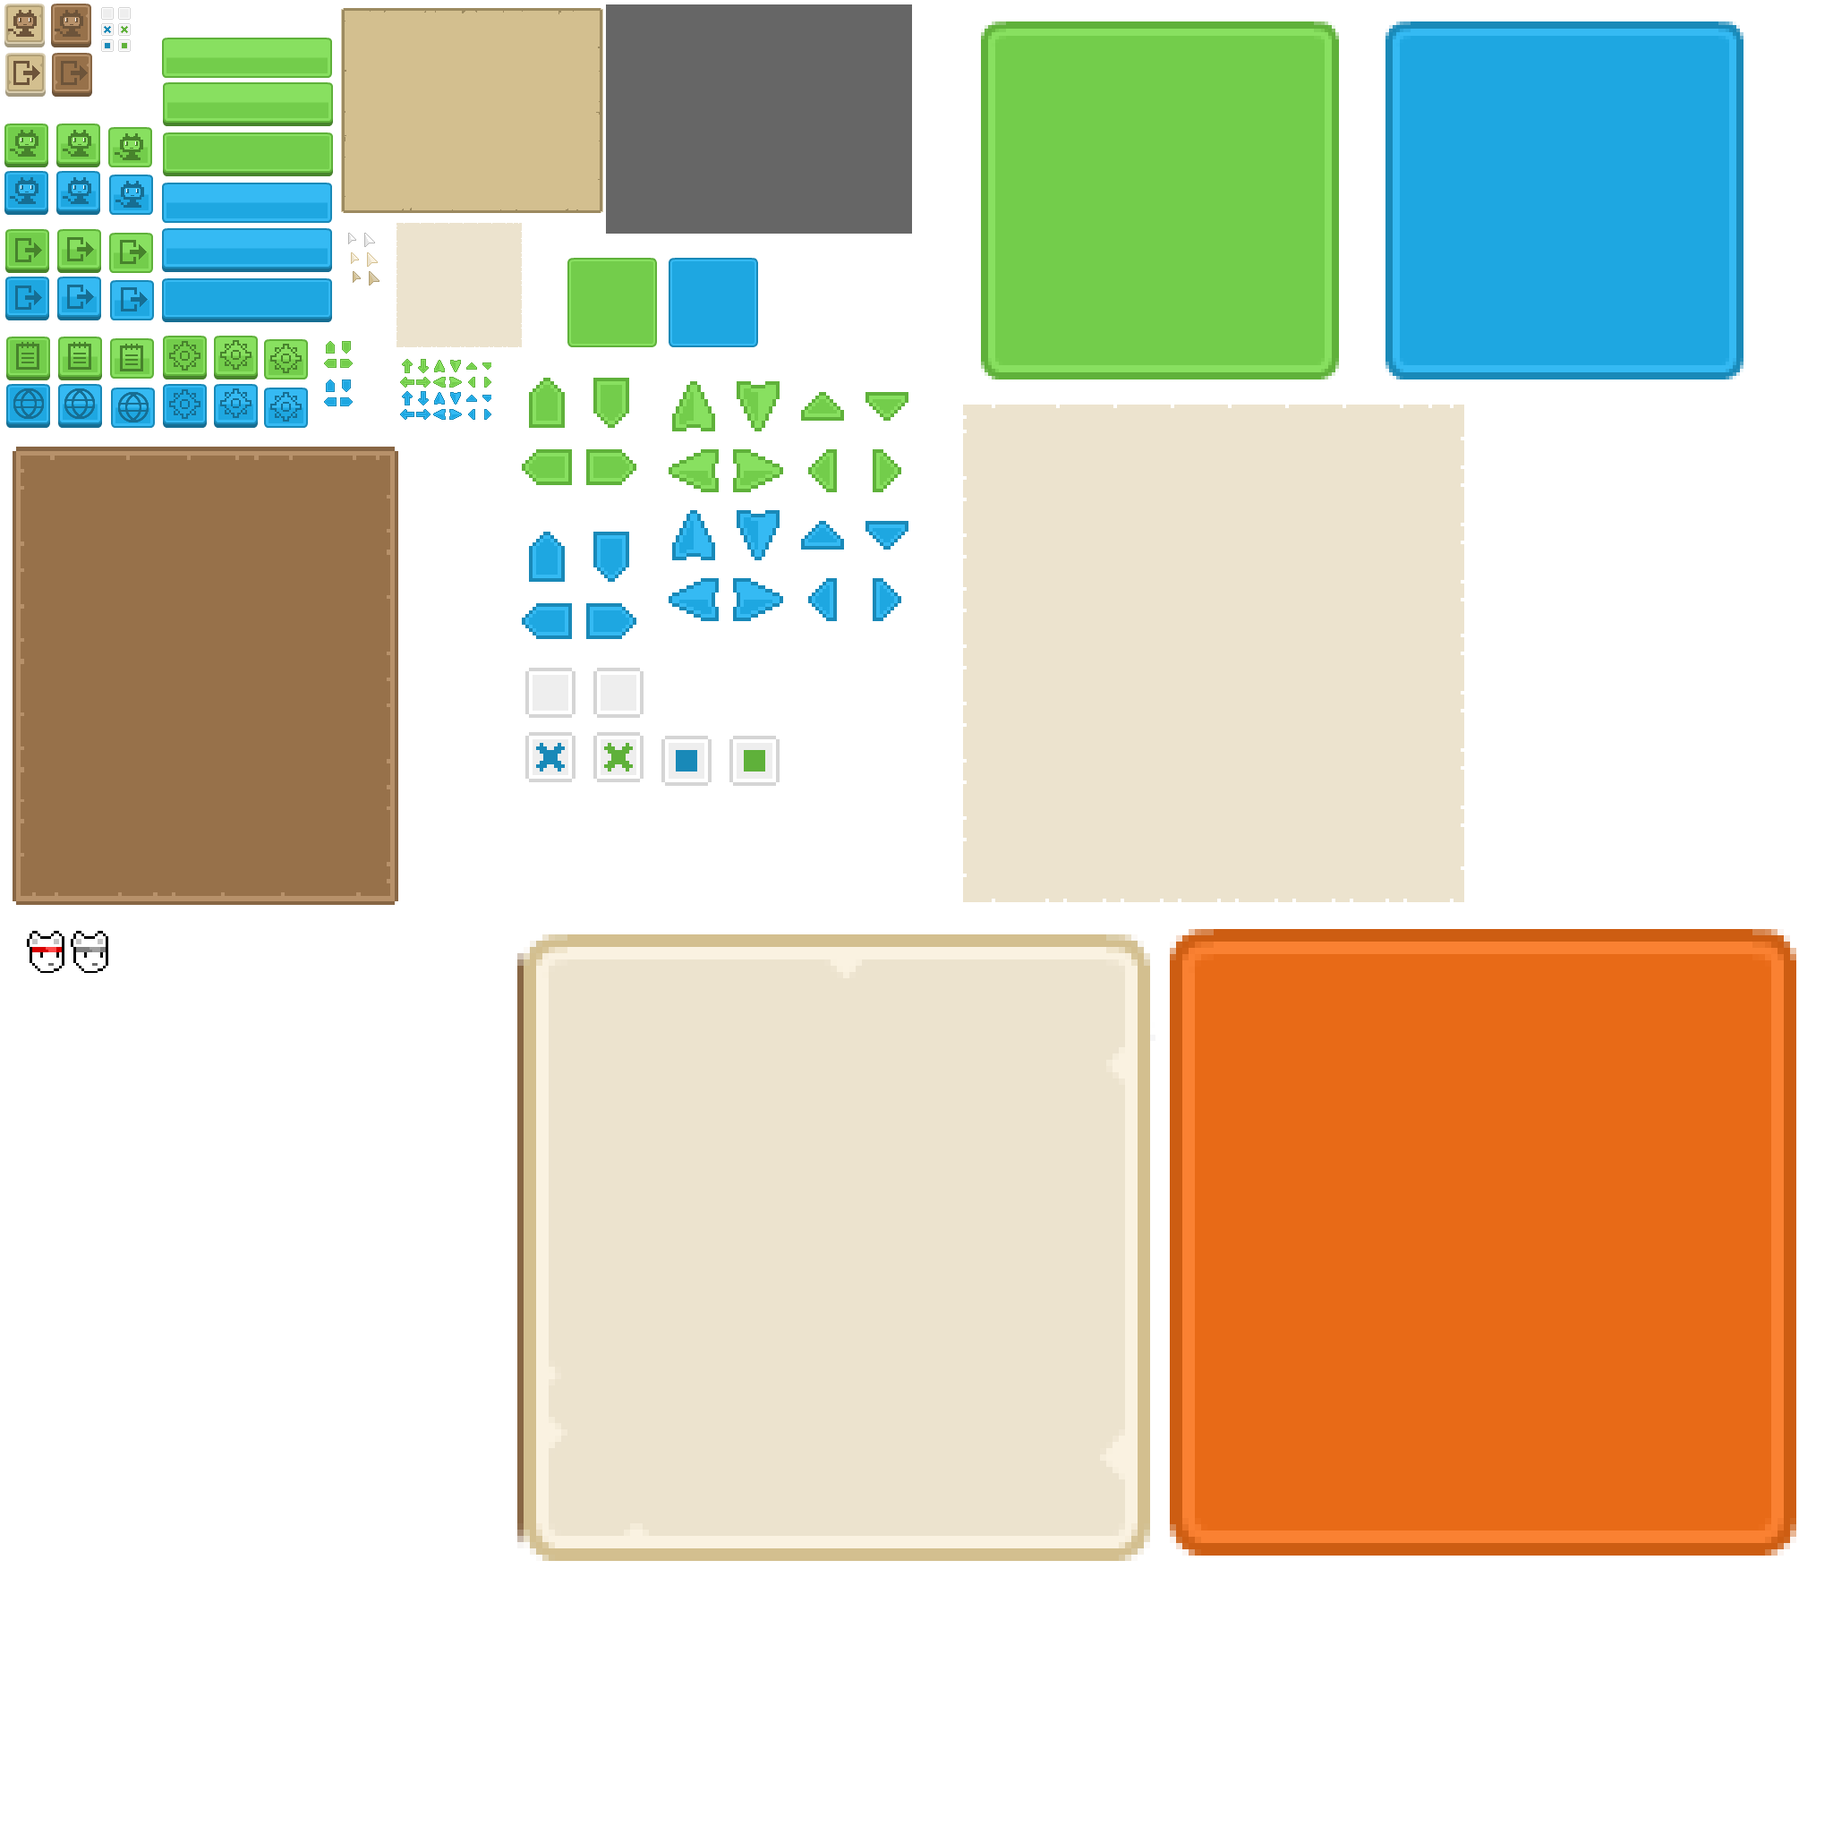
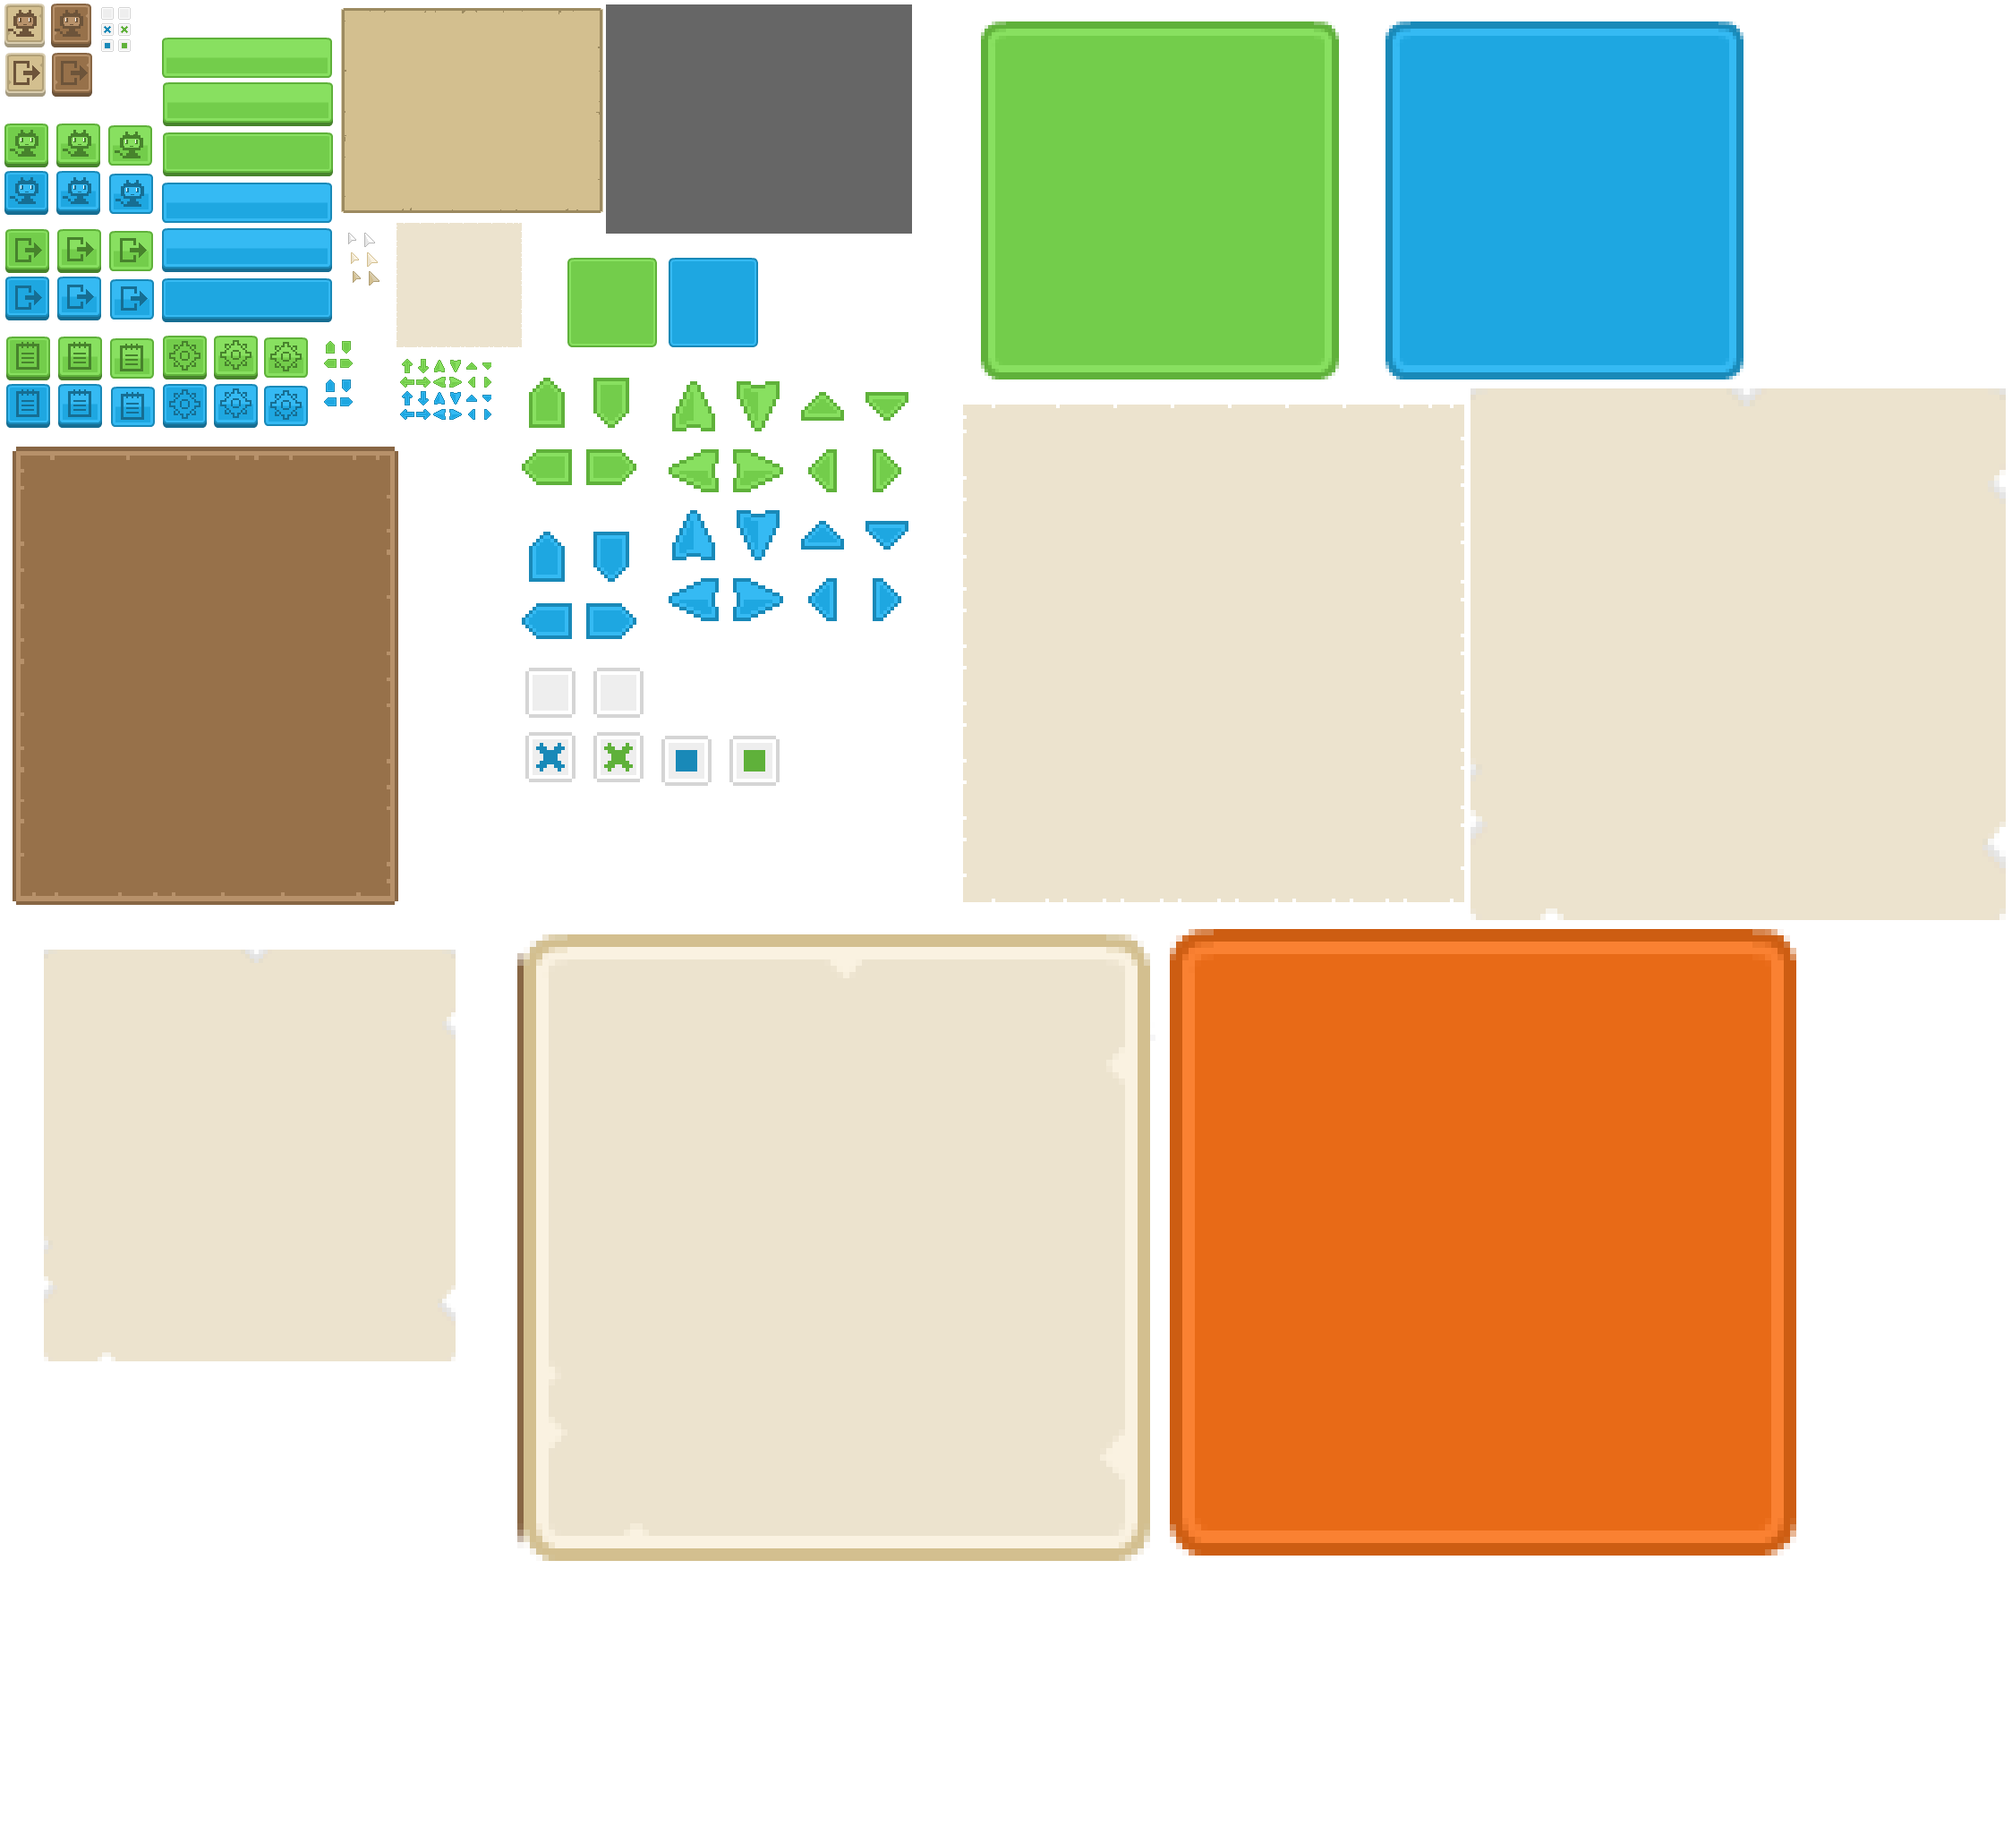
added license & team in credits

Changed region(s): [[0.0, 0.0, 0.5625, 0.875], [0.6562, 0.0, 1.0, 0.875], [0.5625, 0.5, 0.6562, 0.875]]

diff --git a/Motor2D/j1MainMenu.cpp b/Motor2D/j1MainMenu.cpp
@@ -114,9 +114,18 @@ bool j1MainMenu::Start()
 	back_from_credits_btn->interactable = false;
 
 	panel_img = App->gui->CreateImage(win_width/2 - 350, 0, {1306,1035,703,707}, App->gui->screen, false, false, false);
+	panel_credits = App->gui->CreateImage(win_width / 2 - 280, win_height, { 1075,451,561,556 }, App->gui->screen, false, false, false);
 
-	panel_credits = App->gui->CreateImage(win_width / 2 - 215, win_height, { 14,498,431,512 }, App->gui->screen, false, false, false);
+	p2SString license;
+	license.create("MIT License                                                                                           Copyright(c) 2017 \n                                                                                        Permission is hereby granted, free of charge, to any person obtaining a copy of this software and associated documentation files(the ''Software''), to deal in the Software without restriction, including without limitation the rights to use, copy, modify, merge, publish, distribute, sublicense, and/or sell copies of the Software, and to permit persons to whom the Software is furnished to do so, subject to the following conditions : \n                                                                                          The above copyright notice and this permission notice shall be included in all copies or substantial portions of the Software. \n                                                                                                      THE SOFTWARE IS PROVIDED ''AS IS'', WITHOUT WARRANTY OF ANY KIND, EXPRESS OR IMPLIED, INCLUDING BUT NOT LIMITED TO THE WARRANTIES OF MERCHANTABILITY, FITNESS FOR A PARTICULAR PURPOSE AND NONINFRINGEMENT.IN NO EVENT SHALL THE AUTHORS OR COPYRIGHT HOLDERS BE LIABLE FOR ANY CLAIM, DAMAGES OR OTHER LIABILITY, WHETHER IN AN ACTION OF CONTRACT, TORT OR OTHERWISE, ARISING FROM, OUT OF OR IN CONNECTION WITH THE SOFTWARE OR THE USE OR OTHER DEALINGS IN THE SOFTWARE.");
 
+	license_lbl = App->gui->CreateLabel(5,5, license.GetString(), false, false, panel_credits, BLACK, 20, "fonts/Munro.ttf",550U);
+	license_lbl->drawable = false;
+
+	p2SString team;
+	team.create("KITTY LEE'S DEVELOPERS: \n                                                                                                           Carlos Penya Hernando: https://github.com/CarlosUPC \n                                                                                                     Christian Martinez de la Rosa:https://github.com/christt105");
+	team_lbl = App->gui->CreateLabel(5, 470, team.GetString(), false, false, panel_credits, BLACK, 20, "fonts/Munro.ttf", 550U);
+	team_lbl->drawable = false;
 
 	for (int i = 0; i < settings.Count(); i++)
 	{
@@ -299,6 +308,8 @@ bool j1MainMenu::Update(float dt)
 			back_from_credits_btn->drawable = true;
 
 			panel_credits->drawable = true;
+			license_lbl->drawable = true;
+			team_lbl->drawable = true;
 
 			if (panel_credits->GetLocalPosition().y > button_limit/3)
 			{

diff --git a/Motor2D/j1Gui.h b/Motor2D/j1Gui.h
@@ -55,7 +55,7 @@ public:
 
 	Button* CreateButton(const int &pos_x, const int &pos_y, const SDL_Rect &idle = { 0,0,0,0 }, UIElement* parent = nullptr, const SDL_Rect &hover = { 0,0,0,0 }, const SDL_Rect &push = { 0,0,0,0 });
 	Image * CreateImage(const int &pos_x, const int &pos_y, const SDL_Rect & rect = { 0,0,0,0 }, UIElement* parent = nullptr, bool interactable = false, bool draggable = false, bool drawable = true);
-	Label * CreateLabel(const int &pos_x, const int &pos_y, const char* text, bool interactable = false, bool draggable = false, UIElement* parent = nullptr, Color color = WHITE, const uint &size = DEFAULT_FONT_SIZE, const char* font = DEFAULT_FONT);
+	Label * CreateLabel(const int &pos_x, const int &pos_y, const char* text, bool interactable = false, bool draggable = false, UIElement* parent = nullptr, Color color = WHITE, const uint &size = DEFAULT_FONT_SIZE, const char* font = DEFAULT_FONT, uint32 wrap_length = 0U);
 
 	bool DeleteUIElement(UIElement * element);
 	void BFS(p2List<UIElement *> &visited, UIElement * elem);

diff --git a/Motor2D/j1Gui.cpp b/Motor2D/j1Gui.cpp
@@ -207,10 +207,10 @@ Image * j1Gui::CreateImage(const int & pos_x, const int & pos_y, const SDL_Rect 
 	return ret;
 }
 
-Label* j1Gui::CreateLabel(const int &pos_x, const int &pos_y, const char* text, bool interactable, bool draggable, UIElement* parent, Color color, const uint &size, const char* font)
+Label* j1Gui::CreateLabel(const int &pos_x, const int &pos_y, const char* text, bool interactable, bool draggable, UIElement* parent, Color color, const uint &size, const char* font, uint32 wrap_length)
 {
 	Label* ret = nullptr;
-	ret = new Label(pos_x, pos_y, text, color, font, size, parent, interactable, draggable);
+	ret = new Label(pos_x, pos_y, text, color, font, size, parent, interactable, draggable,wrap_length);
 	ui_elements.add(ret);
 	return ret;
 }

diff --git a/Motor2D/Label.cpp b/Motor2D/Label.cpp
@@ -8,7 +8,7 @@ Label::Label(int pos_x, int pos_y, const char * txt, const Color & c, const char
 	text.create(txt);
 
 	SetColor(c);
-	if(wrap_length = 0)
+	if(wrap_length == 0U)
 		texture = App->fonts->Print(text.GetString(), color, font);
 	else texture = App->fonts->PrintWrapped(text.GetString(), color, font, wrap_length);
 
@@ -19,6 +19,7 @@ void Label::InnerDraw()
 {
 	if (drawable)
 		App->render->Blit(texture, draw_offset.x, draw_offset.y, NULL, 0.0F, false, SDL_FLIP_NONE, true);
+
 }
 
 void Label::SetText(const char * txt)

diff --git a/Motor2D/UIElement.cpp b/Motor2D/UIElement.cpp
@@ -30,6 +30,9 @@ void UIElement::Draw()
 			draw_offset.y += p->position.y;
 		}
 	}
+
+	
+
 	/*
 	//check element is inside parent boundaries
 	if (position.x < 0) position.x = 0;
@@ -42,7 +45,7 @@ void UIElement::Draw()
 
 	//App->render->SetViewPort({ GetPosition().x,GetPosition().y,position.w,position.h });
 	InnerDraw();
-	//App->render->ResetViewPort();
+	
 }
 
 void UIElement::Update() {

diff --git a/Motor2D/j1MainMenu.h b/Motor2D/j1MainMenu.h
@@ -73,6 +73,10 @@ private:
 	Label* continue_lbl = nullptr;
 	Label* credits_lbl = nullptr;
 	Label* settings_lbl = nullptr;
+	
+	Label* license_lbl = nullptr;
+	Label* team_lbl = nullptr;
+	Label* tasks_lbl = nullptr;
 
 	p2DynArray<Label*> labels;
 
